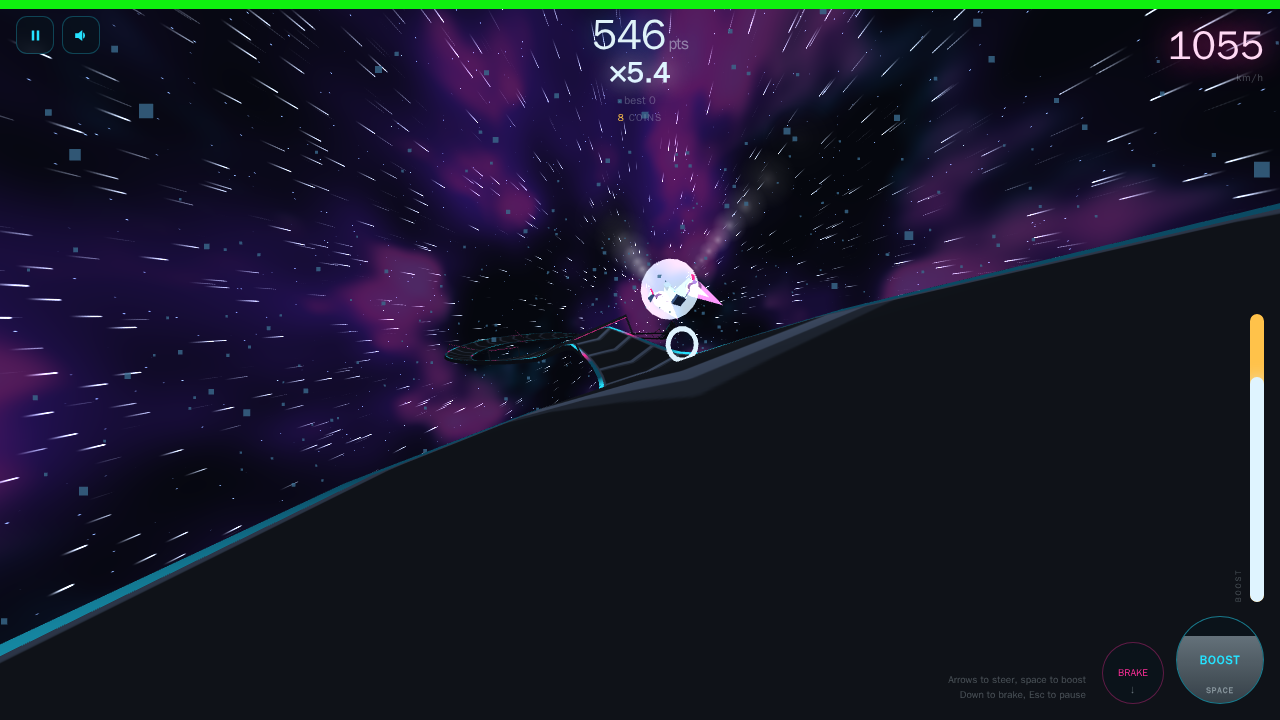
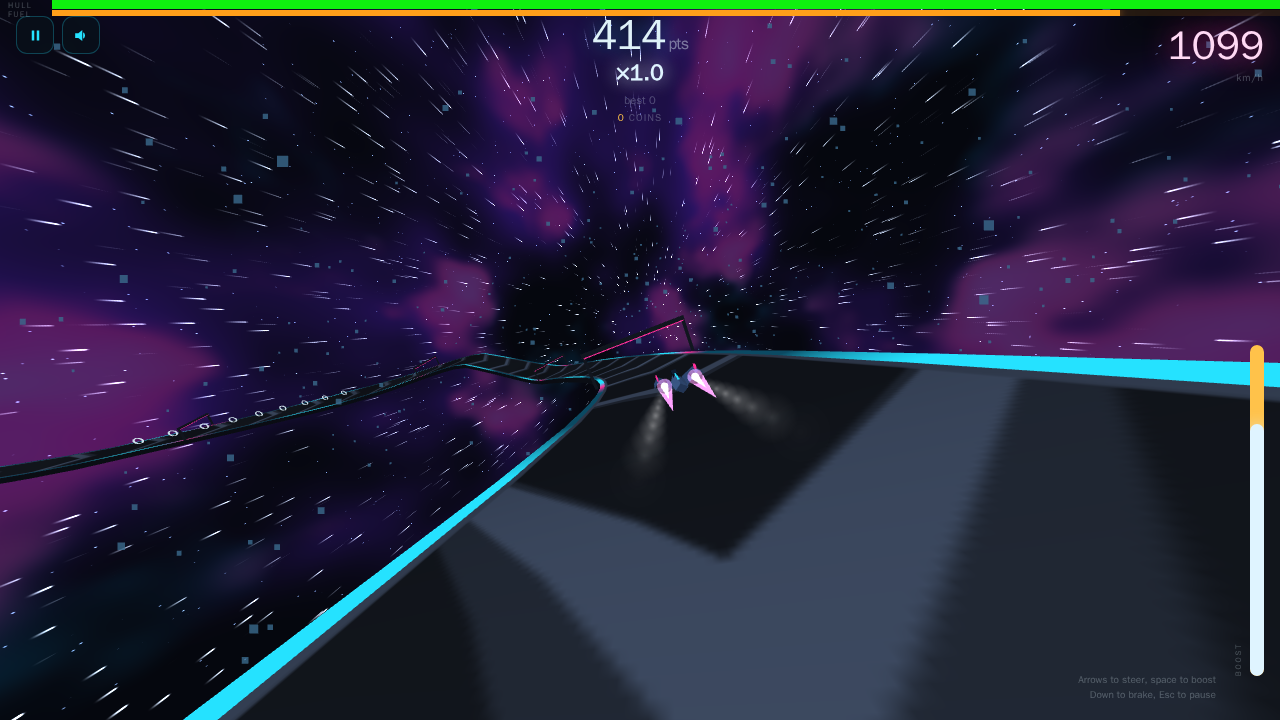
A README for the player alone; the developer notes move to docs/
The root README opens on PLAY — the production address as a heading
and a badge — then the screenshot, the pitch, the rules, how to install,
and an index of the documentation. Nothing about layouts, Docker or
deploying: that is docs/README.md now, which also carries the index of
every document with what each answers, so a developer arriving in docs/
has a map.

The rules follow the day: damage that heals and forgives, a tank that
leaks at cruise on Medium and Hard, the gauge up by the speed on a
phone, the straight opening and the corkscrews after five kilometres,
and the menu saying when the app is already installed.

The screenshot is retaken on the retuned game — the HUD without pads,
the labelled bars — from a seed that puts the ship centred on a banked
corner with the track opening ahead; `neon` is the default seed of
`npm run readme:shot` now.

Documents, an image and a gated spec: no bump.

Claude-Session: https://claude.ai/code/session_01DPwcmTpeoQZDm6K7BmquT4

diff --git a/tests/e2e/readme-shot.spec.ts b/tests/e2e/readme-shot.spec.ts
@@ -42,6 +42,6 @@ test('captures a frame for the README', async ({ page }, testInfo) => {
   if (SEEDS.length) {
     for (const seed of SEEDS) await shoot(page, seed, `test-results/readme-${seed}.png`);
   } else {
-    await shoot(page, 'readme', 'docs/media/screenshot.png');
+    await shoot(page, 'neon', 'docs/media/screenshot.png');
   }
 });

diff --git a/README.md b/README.md
@@ -1,12 +1,11 @@
 # G-SURGE
 
+## ▶ [**PLAY — g-surge.w23.fr**](https://g-surge.w23.fr/)
+
+[![Play](https://img.shields.io/badge/play-g--surge.w23.fr-ff2f9a?style=for-the-badge)](https://g-surge.w23.fr/)
+[![PWA](https://img.shields.io/badge/PWA-installable%20%C2%B7%20offline-ffc24a?style=for-the-badge)](#install-it)
+[![Version](https://img.shields.io/github/package-json/v/fchaussin/g-surge?label=version&color=25e2ff&style=for-the-badge)](package.json)
 [![CI](https://github.com/fchaussin/g-surge/actions/workflows/ci.yml/badge.svg)](https://github.com/fchaussin/g-surge/actions/workflows/ci.yml)
-[![Version](https://img.shields.io/github/package-json/v/fchaussin/g-surge?label=version&color=25e2ff)](package.json)
-[![Play](https://img.shields.io/badge/play-g--surge.w23.fr-ff2f9a)](https://g-surge.w23.fr/)
-[![PWA](https://img.shields.io/badge/PWA-installable%20%C2%B7%20offline-ffc24a)](#install-it)
-[![TypeScript](https://img.shields.io/badge/TypeScript-strict-3178c6)](tsconfig.base.json)
-[![three.js](https://img.shields.io/badge/three.js-r128%20pinned-000000)](docs/TECH-DEBT.md#7-threejs-r128)
-[![Deterministic](https://img.shields.io/badge/simulation-720%20Hz%20%C2%B7%20seeded%20%C2%B7%20bit--identical-35e08a)](docs/ARCHITECTURE.md#the-core-srcsim)
 
 An endless antigrav runner. One ship, one track that never repeats and never
 ends — banked corners, corkscrews, jumps — and a score that is speed multiplied
@@ -15,22 +14,21 @@ climb the ladder to the state the game is named after.
 
 [![G-SURGE, mid super boost](docs/media/screenshot.png)](https://g-surge.w23.fr/)
 
-| | |
-|---|---|
-| **Play** | <https://g-surge.w23.fr/> |
-| **Latest build** | <https://g-surge.pages.dev/> — every push to `main`, the version and commit stamped in the menu |
+Every run opens on a straight, then bends; the corkscrews wait until you are
+five kilometres in.
 
-No account, no download, no assets to fetch: about 160 KB compressed, most of
-it three.js. It runs in any browser, installs as an app on a phone or a
-desktop, and works offline once installed.
+No account, no download, nothing to fetch: it runs in any browser, installs as
+an app on a phone or a desktop, and works offline once installed. Free, and it
+stays free. The latest build, before it reaches the main address, is at
+<https://g-surge.pages.dev/> — the version and commit are stamped in the menu.
 
 ## How to play
 
 **Steer, boost, brake.** On a keyboard, left and right arrows steer, Space or
 up boosts, down brakes, Esc pauses. On a phone, a thumb anywhere on the lower
 left is the stick — it appears where you press and steers left and right —
-and the BOOST and BRAKE pads sit on the right, under the gauge. A left-handed
-layout is in Settings.
+and the BOOST and BRAKE pads sit in the lower right, with the boost gauge up
+by the speed where no thumb covers it. A left-handed layout is in Settings.
 
 **The score is speed × multiplier, every instant.** Distance on its own is
 worth little; speed is what pays, and the multiplier is what makes it pay a
@@ -69,14 +67,17 @@ a super boost burns it faster, and on Medium and Hard even cruising sips at it.
 Orange cans refill it, a G-SURGE fills it to the brim, and running dry takes
 the boost away without stopping you.
 
-**Damage.** The bar along the top is your hull. Impacts cost in proportion to
-how hard you hit, scraping along a wall drains it continuously, landing off
-track after a jump hurts, and damage cuts your top speed, your steering and
-your boost recharge. At zero the run ends. Green pickups repair.
+**Damage.** The green bar along the top is your hull. Impacts cost in
+proportion to how hard you hit, scraping along a wall drains it, landing off
+track after a jump hurts, and damage takes a little of your top speed and
+steering. It heals on its own, quickly, and green pickups heal it faster. At
+zero the run ends — but this is an arcade game: it forgives, and Easy forgives
+most.
 
 **Three difficulties.** Easy is the reference. Medium tightens the corners,
-reaches top speed sooner, makes impacts cost more and the multiplier fade
-faster. Hard does all of that harder, with scarce repairs. A harder level
+reaches top speed sooner, makes impacts cost more, the multiplier fade faster
+and the tank leak at cruise. Hard does all of that harder, with scarce
+repairs and fewer cans. A harder level
 scores its runs with a coefficient, so it is never worth less.
 
 The full reference, with every number and where it lives in the code, is
@@ -87,121 +88,28 @@ tuning and a test fails if they drift.
 
 It is a progressive web app. On Android and desktop Chrome the menu offers
 **INSTALL APP** when the browser allows it; on iPhone and iPad, use Share, then
-**Add to Home Screen**. The installed app runs full screen in landscape, works
-offline, and tells you when a new version is ready — you choose when to
-restart.
+**Add to Home Screen**. If it is already installed on the device, the menu
+says so. The installed app runs full screen in landscape, works offline, and
+tells you when a new version is ready — you choose when to restart.
 
 `?seed=anything` pins the track: <https://g-surge.w23.fr/?seed=alpha> is the
 same track for everyone who opens it.
 
-## For developers
+## Documentation
 
-TypeScript, Vite, three.js pinned to r128. The simulation is a seeded,
-fixed-step core that runs without a browser and is bit-identical across
-engines; the client draws it. `CLAUDE.md` is the rulebook, the documents below
-are the map.
+Everything about how the game is built lives in [`docs/`](docs/README.md):
 
-## Layout
-
-```
-index.html         Vite entry point, markup and all the CSS
-src/
-  sim/             the simulation — no DOM, no three.js, no Math.cos, runs in Node
-  client/          rendering, UI, audio, input, loop
-static/            copied verbatim into the build: _headers, manifest, sw.js
-tests/
-  *.test.ts        Vitest: PRNG, clock, parity against the frozen references
-  e2e/             Playwright against the built artefact
-scripts/
-  serve-static.mjs dependency-free static server, used by the e2e suite
-public/            build output, gitignored — what Cloudflare Pages serves
-```
-
-## Local
-
-    npm install
-    npm run dev          # http://localhost:5173, hot reload
-    npm run build        # compiles src/ into public/
-    npm run verify       # types, lint, unit tests
-    npm run test:e2e     # Playwright, in Docker
-
-`npm run verify` is the command to run after any change; `test:e2e` before
-anything that touches rendering or the interface.
-
-**`test:e2e` runs in the official Playwright container, and that is deliberate.**
-Interface screenshots are compared at zero pixel tolerance and text rendering
-depends on the system's fonts, so the references have to be generated and
-verified in one pinned environment — the same image CI uses. `npm run
-test:e2e:host` skips Docker for a quick loop, at the cost of failing every
-reference that contains text.
-
-`npm run test:e2e:update` regenerates the visual references and
-`npm run fixtures:update` the simulation ones. Neither is routine.
-
-The `?seed=` parameter pins the track: `http://localhost:5173/?seed=alpha`
-replays exactly the same generation on every load. Without it, each run draws
-its own seed.
-
-## Docker
-
-Same thing without installing anything on the machine — Node and Vite live in
-the image:
-
-    docker compose up --build          # http://localhost:5173
-    docker compose run --rm tools npm run verify
-    docker compose run --rm tools npm run build
-    docker compose down
-
-Sources are mounted, not copied: an edit is picked up by hot reload, and the
-image only needs rebuilding when the `Dockerfile` changes. Change the port with
-`GSURGE_PORT=8080`.
-
-The local daemon runs rootless, where uid 0 inside the container is already the
-host user, and `compose.yaml` assumes that. On a rootful daemon, run with
-`GSURGE_USER="$(id -u):$(id -g)"` so that build output is not owned by root.
-
-Playwright is not in the image. Run `npm run test:e2e` on the host.
-
-## Deploying
-
-On Cloudflare Pages. Every push to `main` builds and deploys
-<https://g-surge.pages.dev/>; <https://g-surge.w23.fr/> is the same project
-under its own domain. The stamp in the menu — version and commit — says which
-build is running.
-
-- Build command: `npm run build`
-- Build output directory: `public`
-- Node version: pinned by `.nvmrc`
-
-`static/_headers` is copied into the build and sets the cache policy: `/`,
-`index.html` and `sw.js` are never cached, icons are immutable. The service
-worker only registers over https, so it stays out of the way in development,
-and `src/client/updates.ts` announces a new version to an installed app — the
-player restarts when they choose.
-
-The README screenshot is taken by `npm run readme:shot`, in the Playwright
-container, from a seeded run; `README_SHOT_SEEDS=a,b,c` shoots several
-candidates into `test-results/` to choose from.
-
-## Docs
-
-| File | What it answers |
+| | |
 |---|---|
-| `CLAUDE.md` | Rules for an agent working on this repo, and the traps already paid for |
-| `docs/ARCHITECTURE.md` | How it works, and why the ship never moves |
-| `docs/TECH-DEBT.md` | Honest state of the codebase, measured |
-| `docs/ROADMAP.md` | What to do first, in order, without breaking things |
-| `docs/GAMEPLAY.md` | Scoring, difficulty, handling, and the constants that matter |
-| `docs/FX-PALETTE.md` | The sensory palette, and the G-SURGE specification in its §16 |
-| `docs/TODO.md` | Decisions waiting on the author, with options and a recommendation |
+| [`docs/README.md`](docs/README.md) | For developers: layout, running it locally, Docker, deploying |
+| [`docs/GAMEPLAY.md`](docs/GAMEPLAY.md) | Every rule with its number — the tables are generated from the tuning |
+| [`docs/ARCHITECTURE.md`](docs/ARCHITECTURE.md) | How it works, and why the ship never moves |
+| [`docs/FX-PALETTE.md`](docs/FX-PALETTE.md) | The sensory palette, and the G-SURGE specification |
+| [`docs/ROADMAP.md`](docs/ROADMAP.md) | What was done, in what order, and what remains |
+| [`docs/TECH-DEBT.md`](docs/TECH-DEBT.md) | The honest state of the codebase, measured |
+| [`docs/TODO.md`](docs/TODO.md) | Decisions waiting on the author |
+| [`CLAUDE.md`](CLAUDE.md) | The rulebook for working on this repository |
 
-## Known constraints
-
-- three.js is pinned to r128 and bundled from npm. The code relies on r128
-  behaviour, see `CLAUDE.md` before upgrading.
-- The leaderboard lives in `localStorage` under `gsurge.scores.v2`, a key that tracks
-  the scoring rules rather than the release. Private browsing falls back to
-  memory for the session.
-- Settings are persisted under `gsurge.prefs.v1`; the advanced tuning sliders
-  are deliberately not.
-- `navigator.vibrate` does not exist on iOS; the haptics switch hides itself.
+TypeScript, Vite, three.js r128. The simulation is a seeded, fixed-step core
+that runs without a browser and is bit-identical across engines; the client
+draws it.

diff --git a/docs/README.md b/docs/README.md
@@ -1,0 +1,115 @@
+# G-SURGE — developer notes
+
+The root `README.md` speaks to the player. This one speaks to whoever opens the
+repository: how it is laid out, how to run it, how it is deployed, and where
+the rest of the documentation is. `CLAUDE.md` at the root is the rulebook — the
+ground rules, the traps already paid for, the coding standards — and it applies
+to a person as much as to an agent.
+
+## The documentation, and what each file answers
+
+| File | What it answers |
+|---|---|
+| [`CLAUDE.md`](../CLAUDE.md) | The rules for working on this repository, and the traps already paid for |
+| [`ARCHITECTURE.md`](ARCHITECTURE.md) | How it works, and why the ship never moves |
+| [`GAMEPLAY.md`](GAMEPLAY.md) | Scoring, the ladder, difficulty, handling, damage, fuel — every rule with its number, the tables generated from the tuning |
+| [`FX-PALETTE.md`](FX-PALETTE.md) | The sensory palette, and the G-SURGE specification in its §16 |
+| [`ROADMAP.md`](ROADMAP.md) | What was done in what order, and what remains |
+| [`TECH-DEBT.md`](TECH-DEBT.md) | The honest state of the codebase, measured |
+| [`TODO.md`](TODO.md) | Decisions waiting on the author, with options and a recommendation |
+| [`GAMEPLAY-FEATURES-SUGGESTIONS_26-09-11.md`](GAMEPLAY-FEATURES-SUGGESTIONS_26-09-11.md) | The gameplay proposal of 11 September 2026, and its arbitration in `TODO.md` |
+| [`.claude/rules/versioning.md`](../.claude/rules/versioning.md) | When the version bumps, and by how much |
+
+## Layout
+
+```
+index.html         Vite entry point, markup and all the CSS
+src/
+  sim/             the simulation — no DOM, no three.js, no Math.cos, runs in Node
+  client/          rendering, UI, audio, input, loop
+static/            copied verbatim into the build: _headers, manifest, sw.js
+tests/
+  *.test.ts        Vitest: the core, the client modules that run without a browser, the documents' counts
+  e2e/             Playwright against the built artefact, and the frozen references
+scripts/
+  serve-static.mjs dependency-free static server, used by the e2e suite
+docs/              this file, and the documents indexed above
+public/            build output, gitignored — what Cloudflare Pages serves
+```
+
+## Local
+
+    npm install
+    npm run dev          # http://localhost:5173, hot reload
+    npm run build        # compiles src/ into public/
+    npm run verify       # types, lint, unit tests
+    npm run test:e2e     # Playwright, in Docker
+
+`npm run verify` is the command to run after any change; `test:e2e` before
+anything that touches rendering or the interface.
+
+**`test:e2e` runs in the official Playwright container, and that is deliberate.**
+Interface screenshots are compared at zero pixel tolerance and text rendering
+depends on the system's fonts, so the references have to be generated and
+verified in one pinned environment — the same image CI uses. `npm run
+test:e2e:host` skips Docker for a quick loop, at the cost of failing every
+reference that contains text.
+
+`npm run test:e2e:update` regenerates the visual references and
+`npm run fixtures:update` the simulation ones. Neither is routine.
+
+The `?seed=` parameter pins the track: `http://localhost:5173/?seed=alpha`
+replays exactly the same generation on every load. Without it, each run draws
+its own seed.
+
+## Docker
+
+Same thing without installing anything on the machine — Node and Vite live in
+the image:
+
+    docker compose up --build          # http://localhost:5173
+    docker compose run --rm tools npm run verify
+    docker compose run --rm tools npm run build
+    docker compose down
+
+Sources are mounted, not copied: an edit is picked up by hot reload, and the
+image only needs rebuilding when the `Dockerfile` changes. Change the port with
+`GSURGE_PORT=8080`.
+
+The local daemon runs rootless, where uid 0 inside the container is already the
+host user, and `compose.yaml` assumes that. On a rootful daemon, run with
+`GSURGE_USER="$(id -u):$(id -g)"` so that build output is not owned by root.
+
+Playwright is not in the image. Run `npm run test:e2e` on the host.
+
+## Deploying
+
+On Cloudflare Pages. Every push to `main` builds and deploys
+<https://g-surge.pages.dev/>; <https://g-surge.w23.fr/> is the same project
+under its own domain. The stamp in the menu — version and commit — says which
+build is running.
+
+- Build command: `npm run build`
+- Build output directory: `public`
+- Node version: pinned by `.nvmrc`
+
+`static/_headers` is copied into the build and sets the cache policy: `/`,
+`index.html` and `sw.js` are never cached, icons are immutable. The service
+worker only registers over https, so it stays out of the way in development,
+and `src/client/updates.ts` announces a new version to an installed app — the
+player restarts when they choose.
+
+The root README's screenshot is taken by `npm run readme:shot`, in the Playwright
+container, from a seeded run; `README_SHOT_SEEDS=a,b,c` shoots several
+candidates into `test-results/` to choose from.
+
+## Known constraints
+
+- three.js is pinned to r128 and bundled from npm. The code relies on r128
+  behaviour, see `CLAUDE.md` before upgrading.
+- The leaderboard lives in `localStorage` under `gsurge.scores.v2`, a key that tracks
+  the scoring rules rather than the release. Private browsing falls back to
+  memory for the session.
+- Settings are persisted under `gsurge.prefs.v1`; the advanced tuning sliders
+  are deliberately not.
+- `navigator.vibrate` does not exist on iOS; the haptics switch hides itself.
